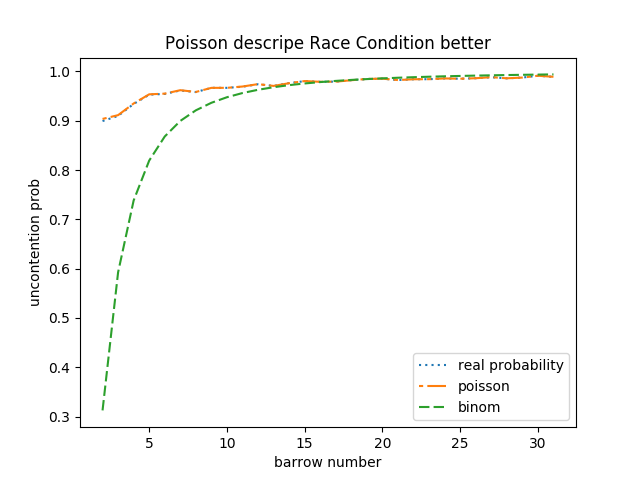
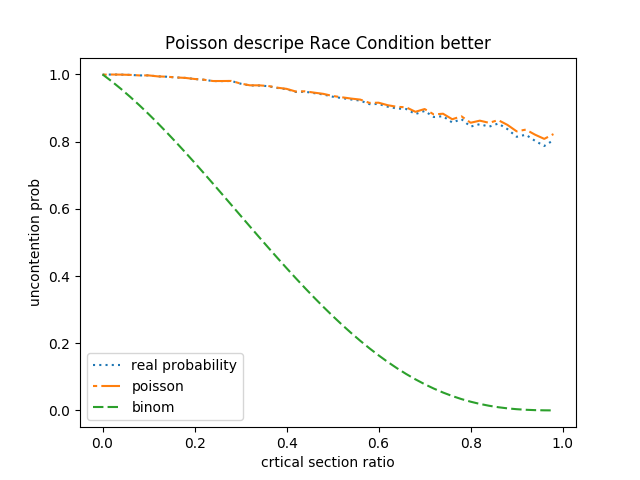
Improve hashing function to allow higher prob resolution

diff --git a/race-condition-stats.c b/race-condition-stats.c
@@ -8,6 +8,7 @@
 #include <sys/mman.h>
 
 #define N_THREAD 16384
+#define N_BARROW 1000
 
 typedef struct op_record {
 	time_t entry;
@@ -16,7 +17,6 @@ typedef struct op_record {
 } op_record_t;
 
 op_record_t g_records[N_THREAD];
-int32_t g_n_barrows;
 int32_t *g_barrows;
 int32_t g_op_length = 0;
 
@@ -42,7 +42,7 @@ void *hash(void *n_thread) {
 	struct timespec start_ts, end_ts;
 	clock_gettime(CLOCK_PROCESS_CPUTIME_ID, &start_ts);
 	int32_t v, t;
-	int32_t bin = rand() % g_n_barrows;
+	int32_t bin = rand() % N_BARROW;
 	// Issues may happen here, since the core operations is too short.
 	v = g_barrows[bin];
 	for (int i = 0; i < g_op_length; i++)
@@ -51,7 +51,7 @@ void *hash(void *n_thread) {
 	g_records[*((int32_t *)n_thread)] = (op_record_t) {
 		.entry = start_ts.tv_nsec * 1.0,
 		.exit = end_ts.tv_nsec * 1.0,
-		.bin = bin
+		.bin = v
 	};
 	free(n_thread);
 	return NULL;
@@ -65,24 +65,27 @@ int main(int argc, char *argv[]) {
 		perror("The program requires two arguments as number of barrows, operation length and number of cores.\n");
 		exit(-1);
 	}
-	g_n_barrows = atoi(argv[1]);
+	float rc_rate = atof(argv[1]);
 	g_op_length = atoi(argv[2]);
 	int32_t cores = atoi(argv[3]);
 	char output_filename[200];
-	sprintf(output_filename, "records/%d_%d_%d_v%d.tsv", g_n_barrows, g_op_length, cores, 0);
+	sprintf(output_filename, "records/%.3f_%d_%d_v%d.tsv", rc_rate, g_op_length, cores, 0);
 	for (uint32_t v = 0; access( output_filename, F_OK ) != -1; v++)
-		sprintf(output_filename, "records/%d_%d_%d_v%d.tsv", g_n_barrows, g_op_length, cores, v);
+		sprintf(output_filename, "records/%.3f_%d_%d_v%d.tsv", rc_rate, g_op_length, cores, v);
 	printf("%s\n", output_filename);
-	g_barrows = (int32_t *)malloc(g_n_barrows * sizeof(int32_t));
-	for (int i; i < g_n_barrows; i++)
-		g_barrows[i] = rand();
+	g_barrows = (int32_t *)malloc(N_BARROW * sizeof(int32_t));
+	for (int i = 0; i < N_BARROW; i++)
+		if (i < N_BARROW * rc_rate)
+			g_barrows[i] = 0;
+		else
+			g_barrows[i] = i;
 	memset(g_records, 0, N_THREAD * sizeof(op_record_t));
 #ifdef RANDOM_SEED
 	srand(RANDOM_SEED);
 #else
 	srand(time(NULL));
 #endif
-	if (mem_lock((void *)g_barrows, g_n_barrows * sizeof(int32_t)) == -1 ||
+	if (mem_lock((void *)g_barrows, N_BARROW * sizeof(int32_t)) == -1 ||
 		mem_lock((void *)g_records, N_THREAD * sizeof(op_record_t) == -1))
 		perror("Error happens while locking memory in mem_lock function.\n");
 	pthread_t tids[N_THREAD];
@@ -97,7 +100,7 @@ int main(int argc, char *argv[]) {
 	for (int i = 0; i < N_THREAD; i++)
 		fprintf(fp, "%ld\t%ld\t%d\n", g_records[i].entry, g_records[i].exit, g_records[i].bin);
 	fclose(fp);
-	if (mem_unlock((void *)g_barrows, g_n_barrows * sizeof(int)) == -1 ||
+	if (mem_unlock((void *)g_barrows, N_BARROW * sizeof(int)) == -1 ||
 		mem_unlock((void *)g_records, N_THREAD * sizeof(op_record_t)) == -1)
 		perror("Error happens while unlocking memory in mem_unlock function.\n");
 	free(g_barrows);

diff --git a/distribution_test.py b/distribution_test.py
@@ -17,24 +17,27 @@ def bhattacharyya(a, b):
         raise ValueError("a and b must be of the same size")
     return -math.log(sum((math.sqrt(u * w) for u, w in zip(a, b))))
 
-def post_analysis(record_path, n_barrows):
-    intervals = {i: [] for i in range(n_barrows)}
+def post_analysis(record_path):
+    intervals = {}
     with open(record_path) as df:
         for l in csv.reader(df, delimiter="\t"):
+            if float(l[0]) > float(l[1]):
+                continue
+            if int(l[2]) not in intervals.keys():
+                intervals[int(l[2])] = []
             intervals[int(l[2])].append({"entry": float(l[0]), "exit": float(l[1])})
-    intervals = {i: filter(lambda intv: intv["exit"] > intv["entry"], intervals[i]) for i in range(n_barrows)}
-    intervals = {i: sorted(intervals[i], key=lambda k: k['entry']) for i in range(n_barrows)}
+    intervals = {b: sorted(intervals[b], key=lambda k: k['entry']) for b in intervals.keys()}
     # Note:
     # When the amount of samples is really low, there is possiblity that no thread get into
     # certain keys.
-    start_time = int(min([ intervals[i][0]['entry'] for i in range(n_barrows)]))
-    end_time = int(max([ intervals[i][-1]['exit'] for i in range(n_barrows)]))
+    start_time = int(min([ v[0]['entry'] for v in intervals.values()]))
+    end_time = int(max([ v[-1]['exit'] for v in intervals.values()]))
     cnt = 0
-    pivots = {i: 0 for i in range(n_barrows)}
+    pivots = {k: 0 for k in intervals.keys()}
     hist = []
     for bin, t in enumerate(range(start_time, end_time, BIN_LENGTH)):
         cnt = 0
-        for k in range(n_barrows):
+        for k in intervals.keys():
             rc = 0
             for i, op in enumerate(intervals[k][ pivots[k]: ]):
                 if op['entry'] >= t + BIN_LENGTH:
@@ -83,19 +86,19 @@ def poisson_vs_binomial():
     poisson = []
     binom = []
     real_prob = []
-    for i in range(2, 32, 1):
+    for i in np.arange(0.0, 1.0, 0.02):
         record_path = gen_dataset(4, i, 16384, "a.out")
-        counts = post_analysis(record_path, i)
+        counts = post_analysis(record_path)
         lda = get_poisson_lambda(counts)
-        print(lda, stats.poisson.pmf(0, lda))
+        print(i, lda, stats.poisson.pmf(0, lda))
         hash_prob.append(i)
         poisson.append(stats.poisson.pmf(0, lda))
-        binom.append(stats.binom.pmf(0, 4, 1 / i) + stats.binom.pmf(1, 4, 1 / i))
+        binom.append(stats.binom.pmf(0, 5, i) + stats.binom.pmf(1, 4, i))
         real_prob.append(uncontent_real_prob(counts))
     fig, ax = plt.subplots()
     plt.title("Poisson descripe Race Condition better")
     plt.ylabel("uncontention prob")
-    plt.xlabel("barrow number")
+    plt.xlabel("crtical section ratio")
     l1, = ax.plot(hash_prob, real_prob, label='real probability')
     l1.set_dashes([1, 2, 1, 2])
     l2, = ax.plot(hash_prob, poisson, label='poisson')
